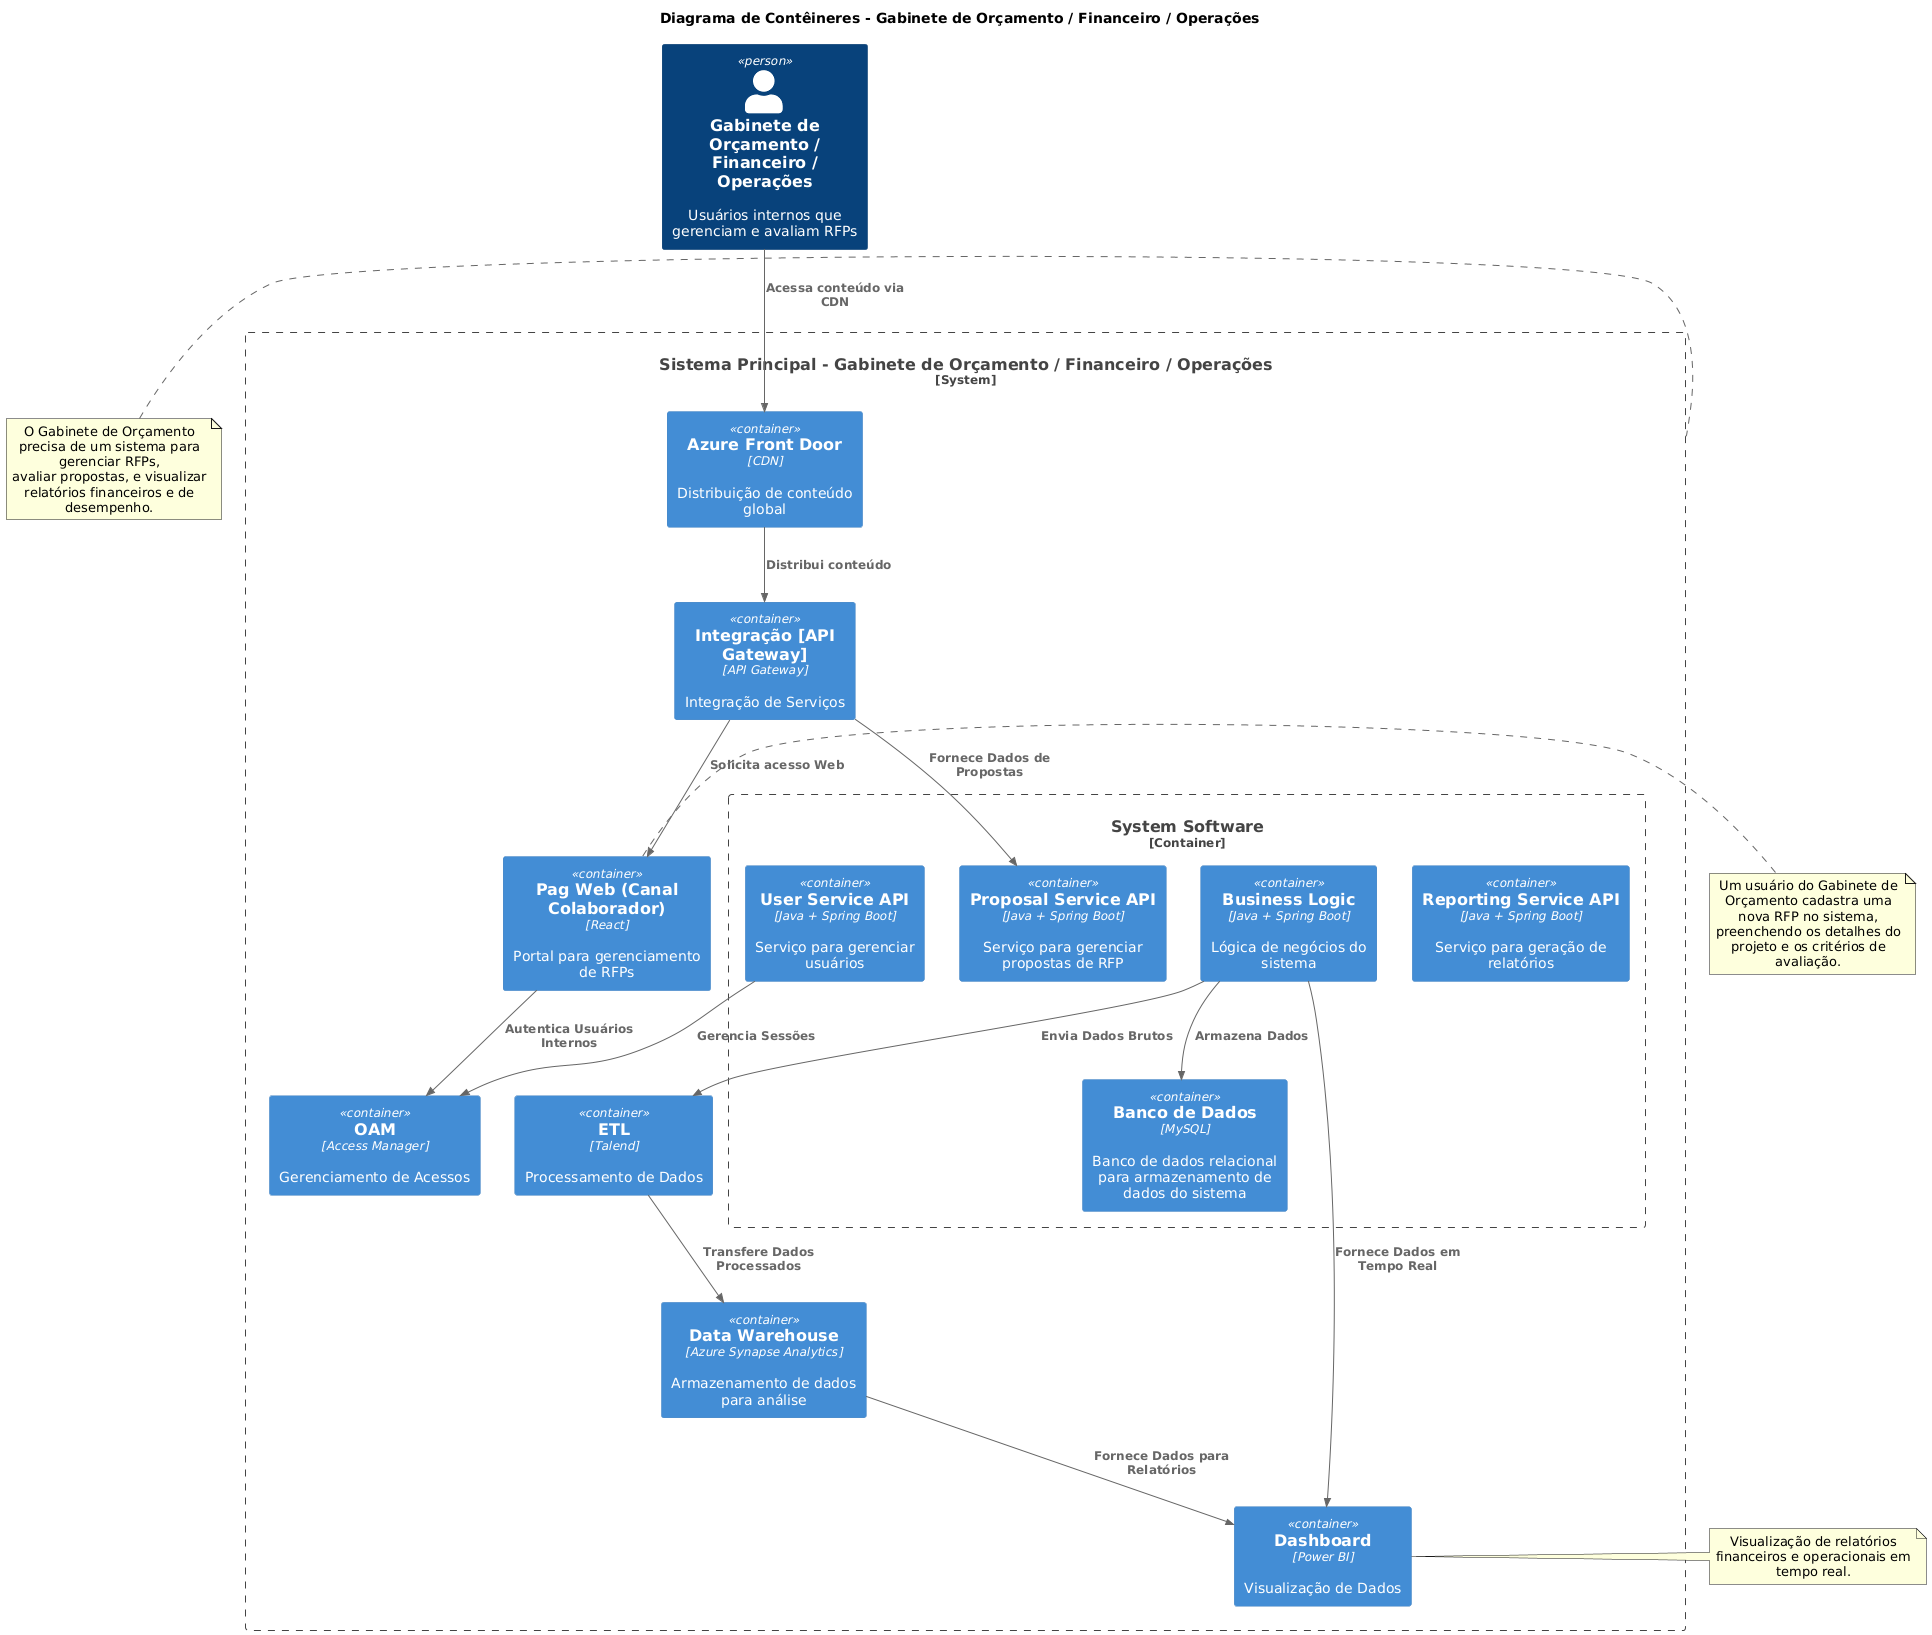
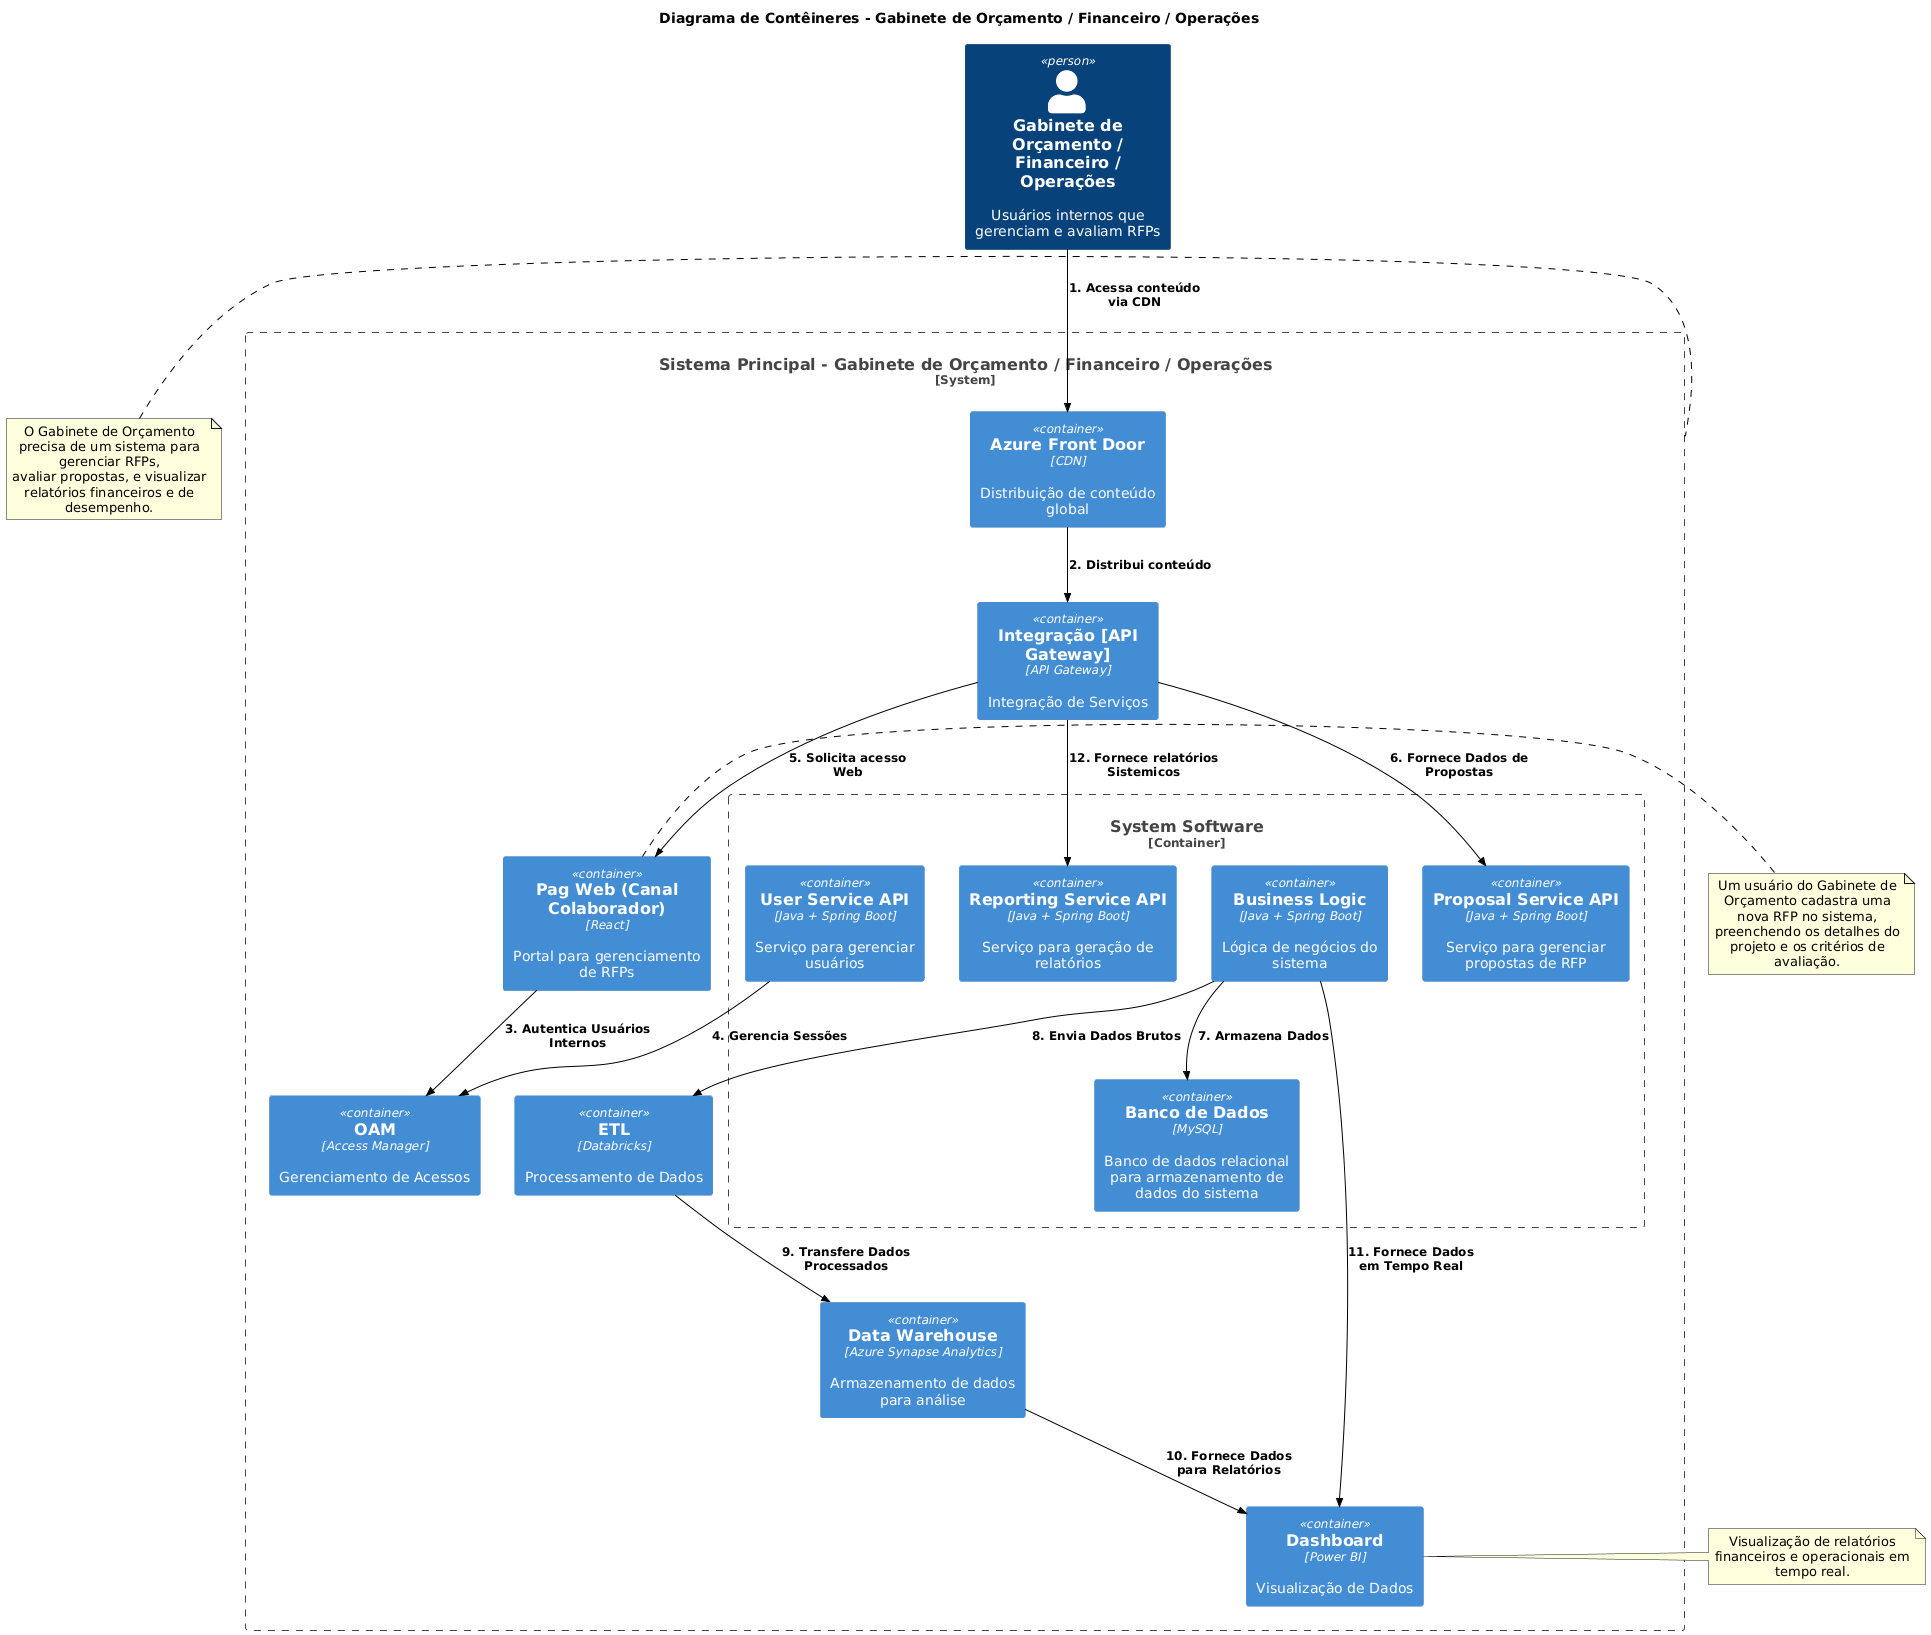
ajustes imagens e textos

diff --git a/doc/perguntas.MD b/doc/perguntas.MD
@@ -135,16 +135,95 @@ Volumetria e escalabilidade, se nossa solução precisaria ser muito escalável,
 camadas do C4; (Subir somente a Imagem jpg/jpeg) 
 
 27. Nível Contexto 
+**Contexto RFP**
 ![Contexto](../images/c4/context/c4_context.png)
+27.1. Acessa Portal para Gerenciar RFPs
+27.2. Visualiza Relatórios Financeiros
+27.3. Acessa Portal para Avaliar Propostas
+27.4. Visualiza Relatórios de Custos
+27.5. Acessa Portal para Monitorar Processos
+27.6. Visualiza Desempenho Operacional
+27.7. Envia Propostas de RFP
+27.8. Autentica Usuários Internos
+27.9. Autentica Usuários Externos
+27.10. Solicita Dados de Sistema
+27.12. Solicita Dados de Sistema
+27.11. Fornece Dados
+27.13. Fornece Dados
+27.14. Envia Dados Brutos"
+27.15. Fornece Relatórios Processados
+
 
 28. Nível Container 
+**Colaborador**
 ![Container Colaborador](../images/c4/container/container_colaborador.png)
+28.1.1. Acessa conteúdo via CDN
+28.1.2. Distribui conteúdo
+28.1.3. Autentica Usuários Internos
+28.1.4. Gerencia Sessões
+28.1.5. Solicita acesso Web
+28.1.6. Fornece Dados de Propostas
+28.1.7. Armazena Dados
+28.1.8. Envia Dados Brutos
+28.1.9. Transfere Dados Processados
+28.1.10. Fornece Dados para Relatórios
+28.1.11. Fornece Dados em Tempo Real
+28.1.12. Fornece relatórios Sistemicos
+**Empresas Interessadas**
 ![Container Empresas](../images/c4/container/container_empresas.png)
+28.2.1. Acessa conteúdo via CDN
+28.2.2. Distribui conteúdo
+28.2.3. Autentica Usuários Externos
+28.2.4. Fornece Dados de Propostas
+28.2.5. Acessa Web
+28.2.6. Gerencia Sessões
 
 29. Nível Componente 
 ![Componente Colaborador](../images/c4/component/canal_colaborador.png)
+29.1.1. Acessa conteúdo via CDN
+29.1.2. Distribui conteúdo
+29.1.3. Solicita acesso Web
+29.1.4. Autentica Usuários Internos
+29.1.5. Autentica Usuários Internos
+29.1.6. Gerencia RFPs
+29.1.7. Envia solicitações de RFP
+29.1.8. Processa Dados de RFPs
+29.1.9. Gerencia Propostas
+29.1.10. Armazena Documentos
+29.1.11. Registra Eventos de Auditoria
+29.1.12. Armazena e Recupera Documentos
+29.1.13. Autentica Usuários
+29.1.14. [jdbc]\nLe e escreve]
+29.1.15. Registra Mudanças
+29.1.16. [jdbc]\nLe e escreve]
+29.1.17. Envia Notificações
+29.1.18. [jdbc]\nLe]
+29.1.19. [jdbc]\nLe e escreve]
 ![Componente Colaborador](../images/c4/component/dashboard_colaborador.png)
+29.2.1. Fornece dados brutos para processamento
+29.2.2. Passa dados extraídos para transformação
+29.2.3. Passa dados transformados para carregamento
+29.2.4. Carrega dados transformados
+29.2.5. Consulta dados para relatórios")  
+29.2.6. Fornece dados para visualizações e relatórios
+29.2.7. Acessa relatórios e visualizações
 ![Componente Empreas](../images/c4/component/canal_empresas.png)
+29.3.1. Acessa conteúdo via CDN"
+29.3.2. Distribui conteúdo"
+29.3.3. Solicita acesso Web"
+29.3.4. Autentica Usuários Externos"
+29.3.5. Autentica Usuários Externos"
+29.3.6. Submete Propostas de RFP"
+29.3.7. Envia solicitações de RFP"
+29.3.8. Submete Propostas de RFP"
+29.3.9. Solicita Visualização de RFPs"
+29.3.10. Solicita Visualização de RFPs"
+29.3.11. Obtém RFPs e Notas"
+29.3.12. Valida Propostas"
+29.3.13. Avalia Propostas"
+29.3.14. [jdbc]\nLê e escreve"
+29.3.15. Gerencia Sessões"
+29.3.16. Valida Usuários para Propostas"
 30. Code (Opcional) 
 31. Validar no checklist (opcional) - https://c4model.com/review/ 
 32. Gravar um vídeo explicando o projeto com um todo e desenhos, Obs: todos os integrantes 
